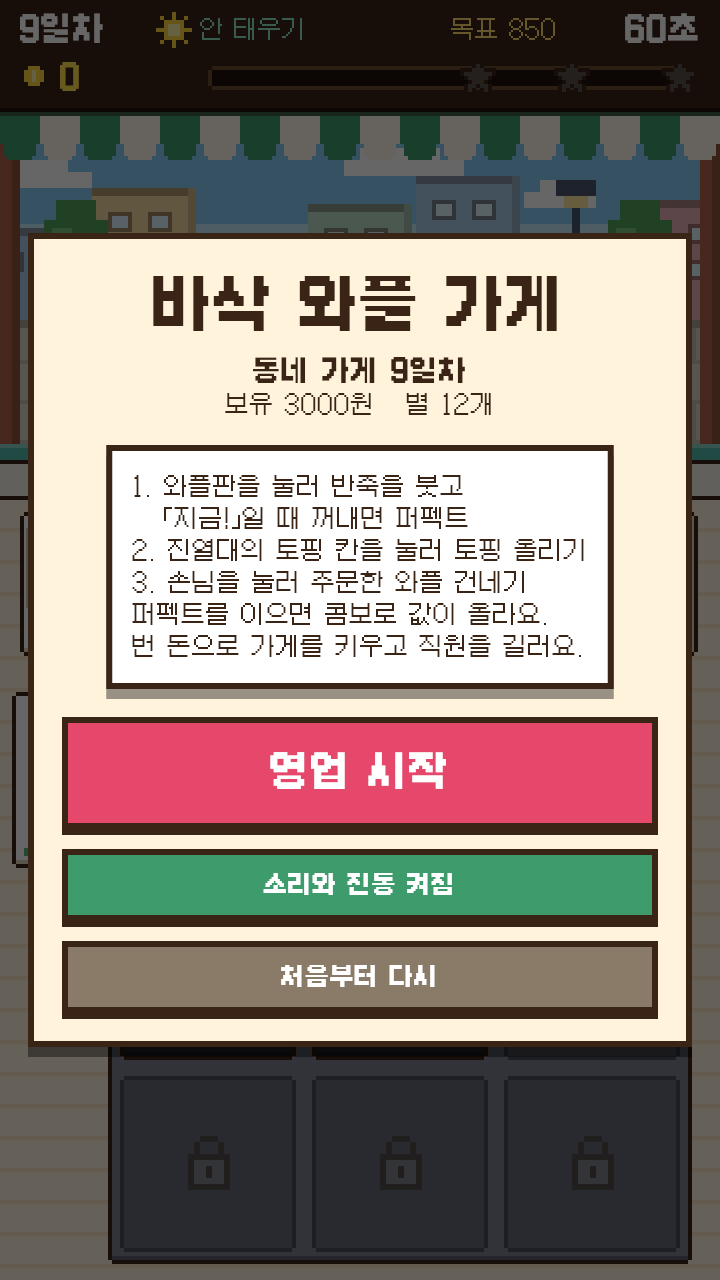
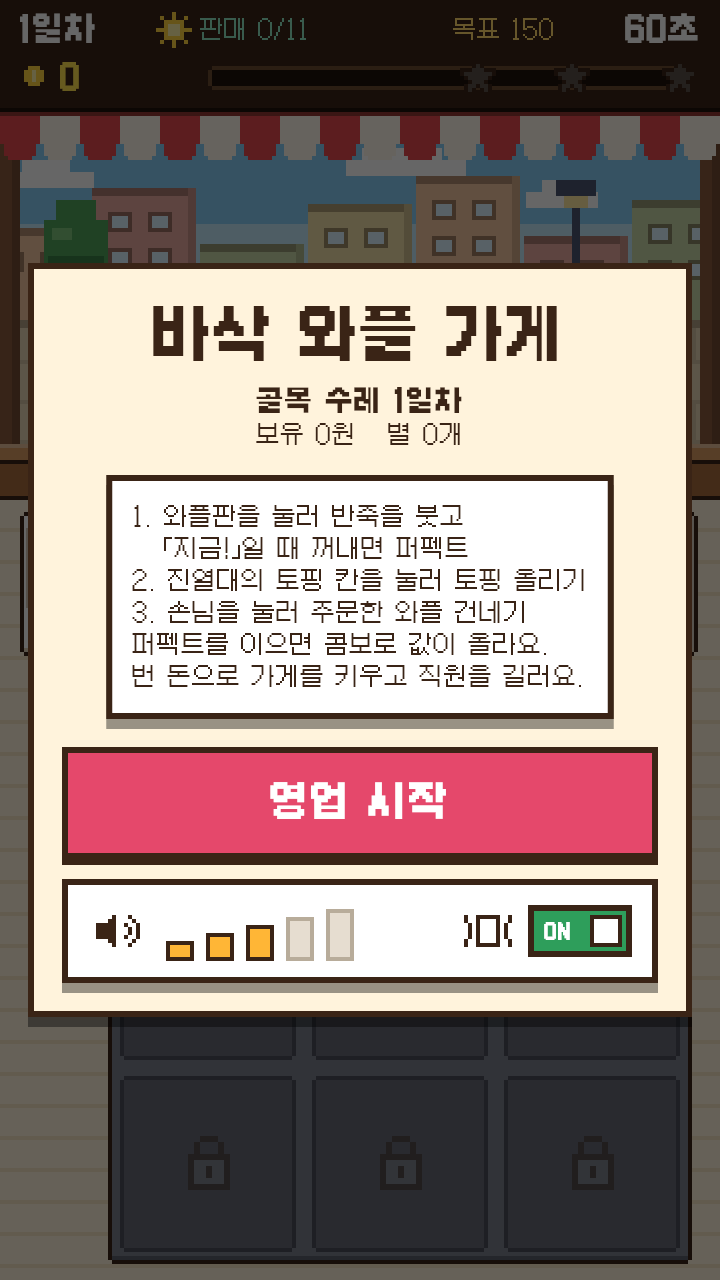
Split sound and vibration settings
- Replace the combined toggle with a speaker icon plus a five-step volume
  bar (tap the icon to mute and restore) and a vibration icon with an
  on/off switch
- Store volume level and vibration separately; migrate the old setting
- Per-sound volumes are now relative to the master volume

Claude-Session: https://claude.ai/code/session_017QaCCbm3s8aX3bJV5HNKid

diff --git a/lib/ui/overlays.dart b/lib/ui/overlays.dart
@@ -5,6 +5,7 @@ import 'package:flutter/material.dart';
 
 import '../game/config.dart';
 import '../game/progress.dart';
+import '../game/sfx.dart';
 import '../game/waffle_game.dart';
 
 const _ink = Color(0xFF3A2416);
@@ -72,6 +73,182 @@ Widget _screen(Widget child) => Container(
       child: ConstrainedBox(constraints: const BoxConstraints(maxWidth: 380), child: child),
     );
 
+/// 글자 하나가 점 하나인 작은 도트 아이콘.
+class PixelIcon extends StatelessWidget {
+  const PixelIcon(this.rows, {super.key, this.color = _ink, this.scale = 2});
+  final List<String> rows;
+  final Color color;
+  final double scale;
+
+  static const speaker = [
+    '....o...o...',
+    '...oo....o..',
+    'ooooo..o..o.',
+    'ooooo...o.o.',
+    'ooooo...o.o.',
+    'ooooo..o..o.',
+    '...oo....o..',
+    '....o...o...',
+  ];
+  static const speakerMuted = [
+    '....o.......',
+    '...oo.o...o.',
+    'ooooo..o.o..',
+    'ooooo...o...',
+    'ooooo...o...',
+    'ooooo..o.o..',
+    '...oo.o...o.',
+    '....o.......',
+  ];
+  static const vibration = [
+    'o..oooooo..o',
+    'o..o....o..o',
+    '.o.o....o.o.',
+    '.o.o....o.o.',
+    '.o.o....o.o.',
+    '.o.o....o.o.',
+    'o..o....o..o',
+    'o..oooooo..o',
+  ];
+  static const vibrationOff = [
+    '...oooooo...',
+    '...o....o...',
+    '...o....o...',
+    '...o....o...',
+    '...o....o...',
+    '...o....o...',
+    '...o....o...',
+    '...oooooo...',
+  ];
+
+  @override
+  Widget build(BuildContext context) => CustomPaint(
+        size: Size(rows.first.length * scale, rows.length * scale),
+        painter: _PixelIconPainter(rows, color, scale),
+      );
+}
+
+class _PixelIconPainter extends CustomPainter {
+  _PixelIconPainter(this.rows, this.color, this.scale);
+  final List<String> rows;
+  final Color color;
+  final double scale;
+
+  @override
+  void paint(Canvas canvas, Size size) {
+    final paint = Paint()
+      ..color = color
+      ..isAntiAlias = false;
+    for (var y = 0; y < rows.length; y++) {
+      for (var x = 0; x < rows[y].length; x++) {
+        if (rows[y][x] != '.') canvas.drawRect(Rect.fromLTWH(x * scale, y * scale, scale, scale), paint);
+      }
+    }
+  }
+
+  @override
+  bool shouldRepaint(_PixelIconPainter old) => old.rows != rows || old.color != color;
+}
+
+/// 소리 크기(스피커 아이콘 + 5단계 막대)와 진동(아이콘 + 켜고 끄는 스위치) 설정.
+class SoundSettings extends StatefulWidget {
+  const SoundSettings(this.game, {super.key});
+  final WaffleGame game;
+
+  @override
+  State<SoundSettings> createState() => _SoundSettingsState();
+}
+
+class _SoundSettingsState extends State<SoundSettings> {
+  static const _off = Color(0xFFB8AC9A);
+
+  void _change(VoidCallback action) => setState(() {
+        action();
+        widget.game.sfx.play('click'); // 바뀐 크기를 바로 들려준다.
+        widget.game.onSave();
+      });
+
+  @override
+  Widget build(BuildContext context) {
+    final sfx = widget.game.sfx;
+    return PixelPanel(
+      color: Colors.white,
+      padding: const EdgeInsets.symmetric(horizontal: 10, vertical: 8),
+      child: Row(children: [
+        // 소리: 아이콘을 누르면 음소거, 막대를 누르면 그 크기로.
+        GestureDetector(
+          behavior: HitTestBehavior.opaque,
+          onTap: () => _change(sfx.toggleMute),
+          child: Padding(
+            padding: const EdgeInsets.all(4),
+            child: PixelIcon(sfx.muted ? PixelIcon.speakerMuted : PixelIcon.speaker,
+                color: sfx.muted ? _off : _ink),
+          ),
+        ),
+        const SizedBox(width: 4),
+        for (var i = 1; i <= Sfx.maxVolumeLevel; i++)
+          GestureDetector(
+            behavior: HitTestBehavior.opaque,
+            onTap: () => _change(() => sfx.setVolumeLevel(i)),
+            child: Container(
+              width: 20,
+              height: 30,
+              alignment: Alignment.bottomCenter,
+              child: Container(
+                width: 14,
+                height: 6.0 + i * 4,
+                decoration: BoxDecoration(
+                  color: i <= sfx.volumeLevel ? _gold : const Color(0xFFE6DDD0),
+                  border: Border.all(color: i <= sfx.volumeLevel ? _ink : _off, width: 2),
+                ),
+              ),
+            ),
+          ),
+        const Spacer(),
+        // 진동: 켜고 끄는 스위치.
+        GestureDetector(
+          behavior: HitTestBehavior.opaque,
+          onTap: () => _change(() {
+            sfx.haptics = !sfx.haptics;
+            sfx.haptic(Haptic.medium);
+          }),
+          child: Row(children: [
+            PixelIcon(sfx.haptics ? PixelIcon.vibration : PixelIcon.vibrationOff,
+                color: sfx.haptics ? _ink : _off),
+            const SizedBox(width: 8),
+            Container(
+              width: 52,
+              height: 26,
+              padding: const EdgeInsets.all(2),
+              decoration: BoxDecoration(
+                color: sfx.haptics ? _green : _off,
+                border: Border.all(color: _ink, width: 3),
+              ),
+              child: Stack(alignment: Alignment.center, children: [
+                Align(
+                  alignment: sfx.haptics ? Alignment.centerLeft : Alignment.centerRight,
+                  child: Padding(
+                    padding: const EdgeInsets.symmetric(horizontal: 3),
+                    child: Text(sfx.haptics ? 'ON' : 'OFF', style: _t(10, color: Colors.white, bold: true)),
+                  ),
+                ),
+                Align(
+                  alignment: sfx.haptics ? Alignment.centerRight : Alignment.centerLeft,
+                  child: Container(
+                    width: 16,
+                    height: 16,
+                    decoration: BoxDecoration(color: Colors.white, border: Border.all(color: _ink, width: 2)),
+                  ),
+                ),
+              ]),
+            ),
+          ]),
+        ),
+      ]),
+    );
+  }
+}
+
 class TitleOverlay extends StatefulWidget {
   const TitleOverlay(this.game, {super.key});
   final WaffleGame game;
@@ -109,15 +286,7 @@ class _TitleOverlayState extends State<TitleOverlay> {
         const SizedBox(height: 14),
         PixelButton('영업 시작', big: true, width: double.infinity, onTap: game.startDay),
         const SizedBox(height: 10),
-        PixelButton(
-          game.sfx.enabled ? '소리와 진동 켜짐' : '소리와 진동 꺼짐',
-          color: game.sfx.enabled ? const Color(0xFF3E9B6B) : const Color(0xFF8A7B68),
-          onTap: () => setState(() {
-            game.sfx.enabled = !game.sfx.enabled;
-            game.sfx.play('click');
-            game.onSave();
-          }),
-        ),
+        SoundSettings(game),
         if (p.day > 1 || p.money > 0) ...[
           const SizedBox(height: 10),
           PixelButton(

diff --git a/lib/game/sfx.dart b/lib/game/sfx.dart
@@ -7,10 +7,30 @@ import 'package:flutter/services.dart';
 enum Haptic { light, medium, heavy, tick }
 
 class Sfx {
-  Sfx({this.enabled = true});
+  Sfx({int volumeLevel = defaultVolumeLevel, this.haptics = true})
+      : volumeLevel = volumeLevel.clamp(0, maxVolumeLevel);
 
-  /// 소리와 진동을 함께 켜고 끈다.
-  bool enabled;
+  static const maxVolumeLevel = 5;
+  static const defaultVolumeLevel = 3;
+
+  /// 소리 크기 단계(0 = 끔, 5 = 최대).
+  int volumeLevel;
+
+  /// 진동 사용 여부.
+  bool haptics;
+
+  /// 음소거를 풀 때 돌아갈 단계.
+  int _lastLevel = defaultVolumeLevel;
+
+  bool get muted => volumeLevel == 0;
+
+  void setVolumeLevel(int level) {
+    volumeLevel = level.clamp(0, maxVolumeLevel);
+    if (volumeLevel > 0) _lastLevel = volumeLevel;
+  }
+
+  /// 스피커 아이콘을 눌렀을 때: 끄거나, 끄기 전 크기로 되돌린다.
+  void toggleMute() => setVolumeLevel(muted ? _lastLevel : 0);
 
   static const names = [
     'click', 'pour', 'early', 'good', 'topping', 'serve', 'bonus', 'burnt', 'full', 'lost',
@@ -25,8 +45,10 @@ class Sfx {
     } catch (_) {}
   }
 
-  void play(String name, {double volume = 0.6}) {
-    if (!enabled) return;
+  /// [volume] 은 이 소리만의 상대 크기(0~1). 실제 크기는 여기에 전체 음량 단계가 곱해진다.
+  void play(String name, {double volume = 1.0}) {
+    if (muted) return;
+    volume = volume * volumeLevel / maxVolumeLevel;
     // 소리를 낼 수 없는 환경(테스트, 자동재생 차단 등)에서도 조용히 넘어간다.
     try {
       FlameAudio.play('$name.wav', volume: volume).catchError((Object _) => AudioPlayer());
@@ -37,7 +59,7 @@ class Sfx {
   void perfect(int combo) => play('perfect${(combo - 1).clamp(0, 5)}');
 
   void haptic(Haptic kind) {
-    if (!enabled) return;
+    if (!haptics) return;
     switch (kind) {
       case Haptic.light:
         HapticFeedback.lightImpact();

diff --git a/lib/main.dart b/lib/main.dart
@@ -12,21 +12,29 @@ import 'game/waffle_game.dart';
 import 'ui/overlays.dart';
 
 const _saveKey = 'crispy_waffle_save_v1';
-const _soundKey = 'crispy_waffle_sound';
+const _soundKey = 'crispy_waffle_sound'; // 예전 설정(소리와 진동을 함께 켜고 끄던 값)
+const _volumeKey = 'crispy_waffle_volume';
+const _hapticsKey = 'crispy_waffle_haptics';
 
 Future<void> main() async {
   WidgetsFlutterBinding.ensureInitialized();
   await SystemChrome.setPreferredOrientations([DeviceOrientation.portraitUp]);
   final prefs = await SharedPreferences.getInstance();
   final progress = Progress.decode(prefs.getString(_saveKey));
-  final sfx = Sfx(enabled: prefs.getBool(_soundKey) ?? true);
+  // 예전에 '끔'으로 저장해 둔 사람은 새 설정에서도 꺼진 상태로 시작한다.
+  final legacyOn = prefs.getBool(_soundKey) ?? true;
+  final sfx = Sfx(
+    volumeLevel: prefs.getInt(_volumeKey) ?? (legacyOn ? Sfx.defaultVolumeLevel : 0),
+    haptics: prefs.getBool(_hapticsKey) ?? legacyOn,
+  );
   sfx.preload();
   final game = WaffleGame(
     progress,
     sfx: sfx,
     onSave: () {
       prefs.setString(_saveKey, progress.encode());
-      prefs.setBool(_soundKey, sfx.enabled);
+      prefs.setInt(_volumeKey, sfx.volumeLevel);
+      prefs.setBool(_hapticsKey, sfx.haptics);
     },
   );
 

diff --git a/test/session_test.dart b/test/session_test.dart
@@ -3,6 +3,7 @@ import 'dart:math';
 import 'package:crispy_waffle_shop/game/config.dart';
 import 'package:crispy_waffle_shop/game/progress.dart';
 import 'package:crispy_waffle_shop/game/session.dart';
+import 'package:crispy_waffle_shop/game/sfx.dart';
 import 'package:crispy_waffle_shop/game/sprites.dart';
 import 'package:flutter_test/flutter_test.dart';
 
@@ -196,6 +197,19 @@ void main() {
     }
     expect(Balance.goalForDay(1), 150);
     expect(Balance.goalForDay(100), Balance.goalAnchors.last.$2);
+  });
+
+  test('소리 설정: 크기 단계, 음소거와 되돌리기, 진동은 따로', () {
+    final sfx = Sfx();
+    expect(sfx.volumeLevel, Sfx.defaultVolumeLevel);
+    sfx.setVolumeLevel(5);
+    sfx.toggleMute();
+    expect(sfx.muted, isTrue);
+    expect(sfx.haptics, isTrue); // 소리를 꺼도 진동은 그대로
+    sfx.toggleMute();
+    expect(sfx.volumeLevel, 5); // 끄기 전 크기로 복귀
+    sfx.setVolumeLevel(99);
+    expect(sfx.volumeLevel, Sfx.maxVolumeLevel);
   });
 
   test('도트 그림의 모든 줄은 길이가 같다', () {

diff --git a/lib/game/waffle_game.dart b/lib/game/waffle_game.dart
@@ -37,7 +37,7 @@ class _Particle {
 }
 
 class WaffleGame extends FlameGame with TapCallbacks {
-  WaffleGame(this.progress, {required this.onSave, Sfx? sfx}) : sfx = sfx ?? Sfx(enabled: false);
+  WaffleGame(this.progress, {required this.onSave, Sfx? sfx}) : sfx = sfx ?? Sfx(volumeLevel: 0, haptics: false);
 
   final Progress progress;
   final void Function() onSave;
@@ -198,7 +198,7 @@ class WaffleGame extends FlameGame with TapCallbacks {
         _burst(at, const [Color(0xFFFFFFFF), Color(0xFFE9D9B8)], 5, 90);
         _trayBump[Topping.plain] = _bumpTime;
       case FxType.tooEarly:
-        sfx.play('early', volume: 0.4);
+        sfx.play('early', volume: 0.65);
       case FxType.burnt:
         sfx.play('burnt');
         sfx.haptic(Haptic.heavy);
@@ -216,7 +216,7 @@ class WaffleGame extends FlameGame with TapCallbacks {
         sfx.play('lost');
         sfx.haptic(Haptic.medium);
       case FxType.noStock:
-        sfx.play('early', volume: 0.4);
+        sfx.play('early', volume: 0.65);
       default:
         break;
     }
